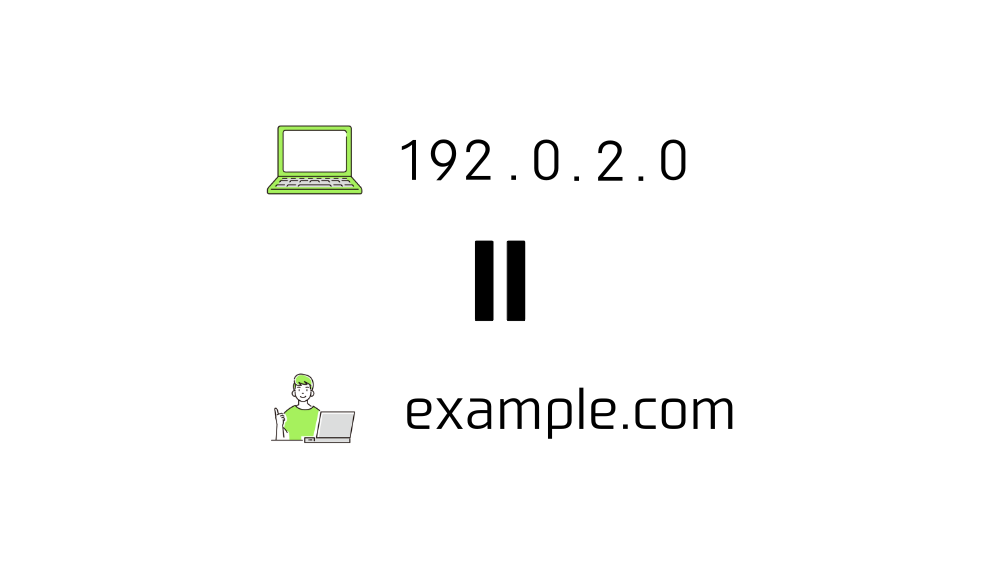
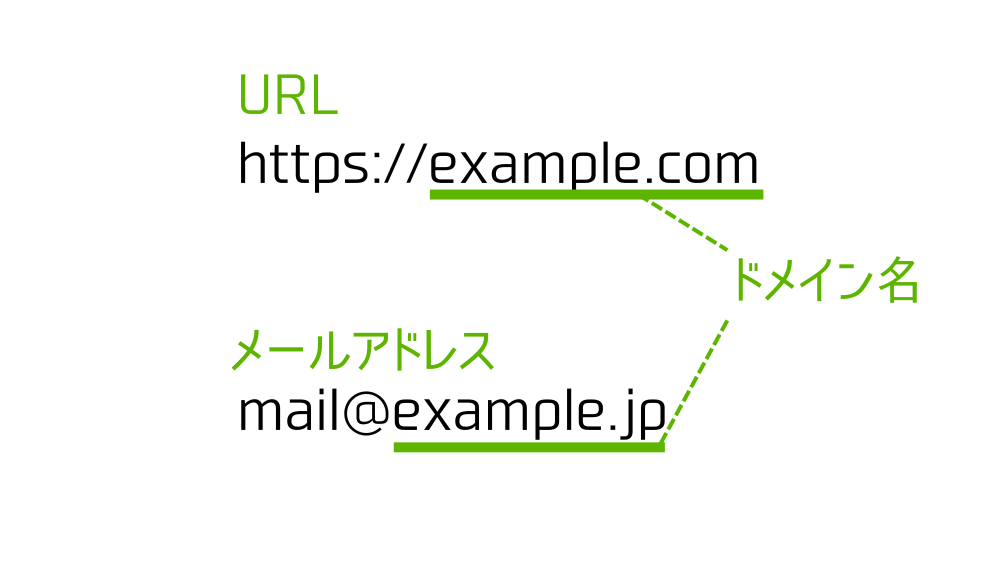
docs: add unused images
The unused-NN renamed images disappeared from disk before being
committed (external editor/tooling conflict). Restored them from the
pre-rename backup so the delete-candidate files are preserved.

diff --git a/src/content/posts/what-is-domain-name/index.md b/src/content/posts/what-is-domain-name/index.md
@@ -43,7 +43,7 @@ example.com
 
 URLやメールアドレスにドメイン名を使うことで、コンピュータ側が『どのコンピュータとデータをやり取りするか』を判断できるようになります。
 
-![ドメイン名の使われ方](https://rootful.net/wp-content/uploads/2024/10/f2f081c31f2bca1ff5b0932742235392.png)
+![ドメイン名の使われ方](./images/02.png)
 
 ### IPアドレスとの関係
 
@@ -61,7 +61,7 @@ IPアドレスはドメイン名と同じくインターネットにおけるコ
 
 そのため、この数字の羅列を人間が覚えやすい形に変換したものがドメイン名になります。
 
-![IPアドレスはドメイン名を変換したもの](./images/02.png)
+![IPアドレスはドメイン名を変換したもの](./images/03.png)
 
 IPアドレスについて詳しく知りたい方はこちらの記事がおすすめです。
 
@@ -81,7 +81,7 @@ IPアドレスについて詳しく知りたい方はこちらの記事がおす
 
 と呼ばれます。
 
-![ドメイン名の構造](https://rootful.net/wp-content/uploads/2024/10/57579dbf486e9c81112b1e80e9d76fd2.png)
+![ドメイン名の構造](./images/04.png)
 
 「.jp」や「.com」は代表的なTLDです。
 
@@ -149,7 +149,7 @@ DNS（Domain Name System）とは、「ドメイン名に紐づけられたIPア
 
 まずは全体像をざっと把握してみてください。
 
-![DNSの処理の流れ](./images/03.png)
+![DNSの処理の流れ](./images/05.png)
 
 DNSでは大きく分けて3つの登場人物がいます。
 
@@ -189,7 +189,7 @@ DNSでは大きく分けて3つの登場人物がいます。
 
 そして各2LDの管理者は各々の直下にある3LDを...といった形で管理が行われています。
 
-![DNSの管理方法](./images/04.png)
+![DNSの管理方法](./images/06.png)
 
 それぞれのサーバーは
 
@@ -217,7 +217,7 @@ DNSでは大きく分けて3つの登場人物がいます。
 
 上記の流れを知った上で改めて以下の図を見てもらうと、DNSの処理の流れが理解しやすいと思います。
 
-![DNSの処理の流れ](./images/03.png)
+![DNSの処理の流れ](./images/05.png)
 
 ## まとめ
 
